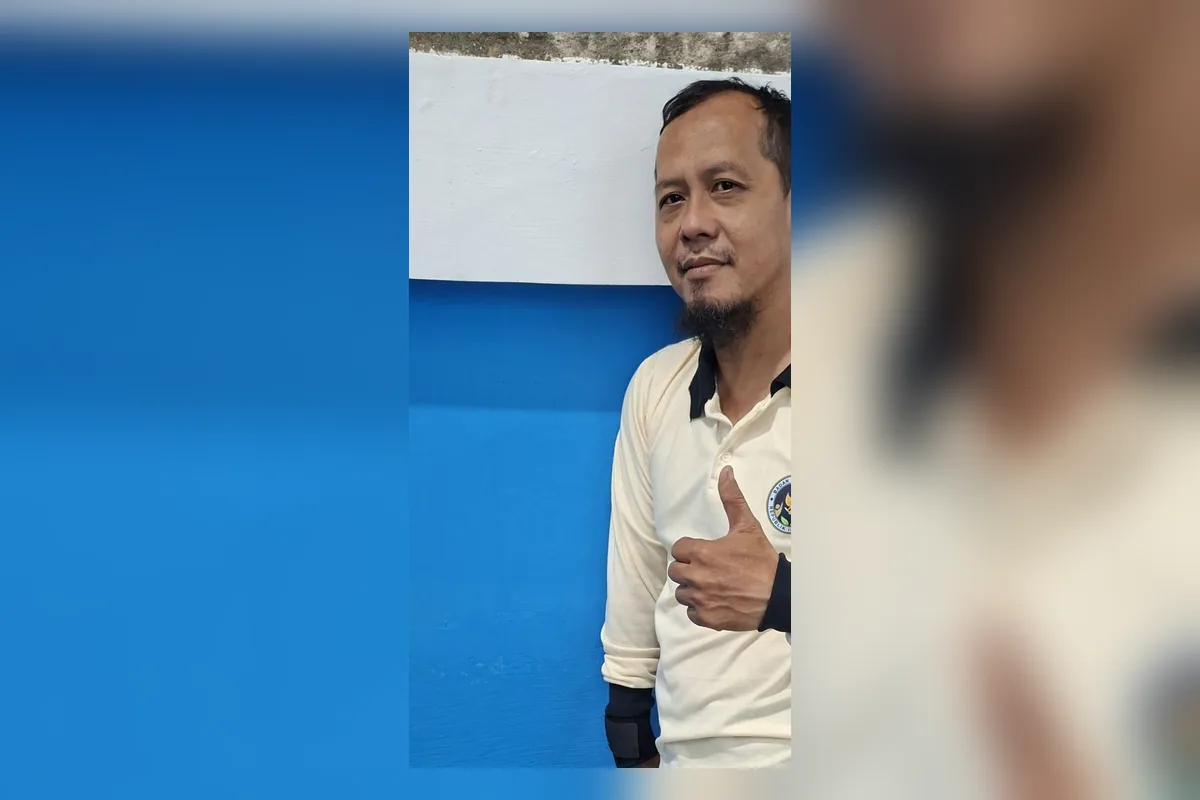
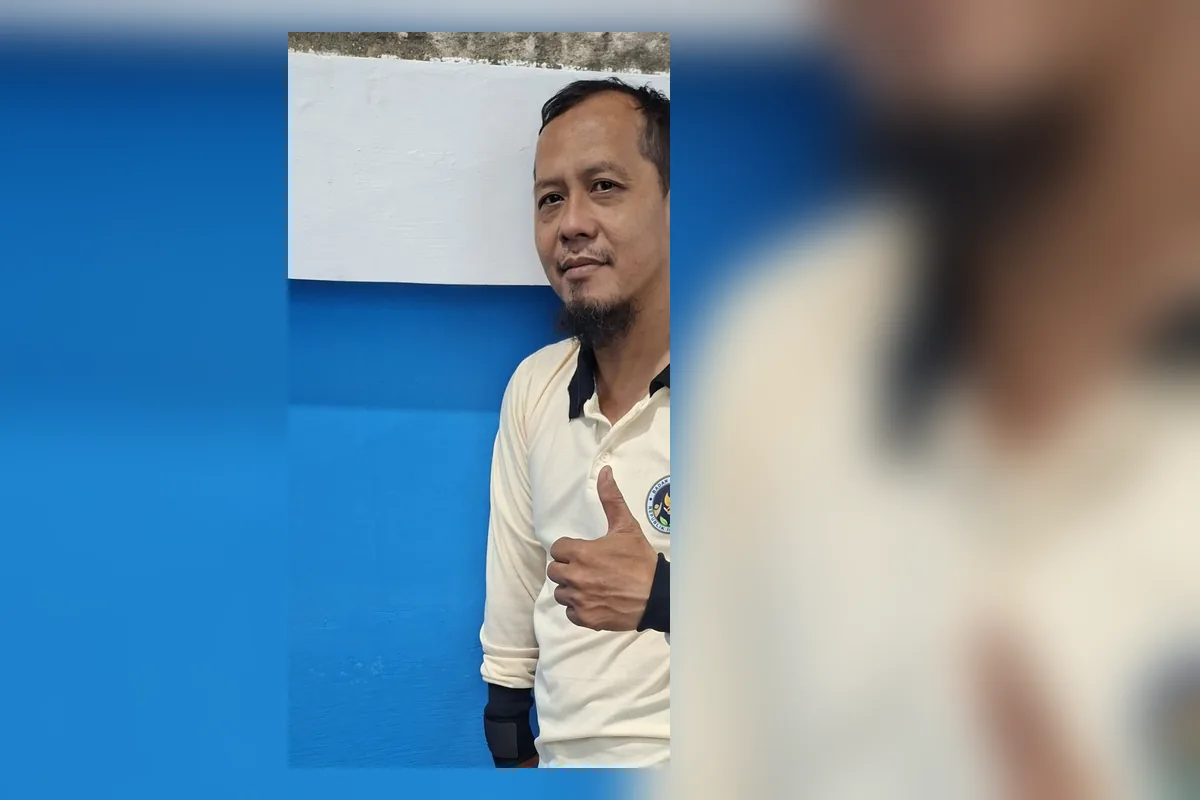
fix(team): center ops team photos + subtle zoom (YuNet-measured)
- ops wide cards: per-photo transform scale+translateX to bring YuNet
  face-center group means to ~50% (persiapan/pengolahan/pemorsian/keamanan)
- team-distribusi: re-crop from 1400x631 original centered on group (was 41% left)
- staff-packing: re-pad blur-pad centered on face (YuNet 81.6% -> 50%)
- uniform baseline zoom 7% (13-15% where centering needs more shift)
- verified: all 7 cards full coverage (no edge slivers), build passes

Changed region(s): [[0.2158, 0.0312, 0.6783, 0.9688]]

diff --git a/src/app/globals.css b/src/app/globals.css
@@ -1896,3 +1896,40 @@ html.theme-transition, html.theme-transition * {
   .team-staff-photo-card .staff-cap b { font-size: .72rem; line-height: 1.15; }
   .team-staff-photo-card .staff-cap .staff-badge { font-size: .5rem !important; padding: 2px 7px !important; }
 }
+
+/* ── rev-15: team ops photos — CENTER + zoom-in dikit (2026-08-20) ──
+   Desktop media ratio == source ratio (3:2) → object-position does nothing;
+   centering must be done with transform. Offsets = OpenCV YuNet face-center
+   measurements (group center vs 50%), scale chosen per photo so the shift
+   stays within coverage (no edge sliver / no clipped subject). */
+.team-photo-wide-card .team-photo-media img {
+  transform: scale(1.07);
+}
+.team-photo-wide-card .team-photo-media img[data-photo="team.persiapan"] {
+  /* group +5.0% right (YuNet 55.0%) -> shift -5% w/ scale 1.12 */
+  transform: scale(1.12) translateX(-5%);
+}
+.team-photo-wide-card .team-photo-media img[data-photo="team.pengolahan"] {
+  /* group +2.6% right (52.6%) */
+  transform: scale(1.07) translateX(-2.6%);
+}
+.team-photo-wide-card .team-photo-media img[data-photo="team.pemorsian"] {
+  /* group -2.3% left (47.7%) + crop excess headroom (face_y 31%) */
+  transform: scale(1.07) translateX(2.3%) translateY(3%);
+}
+.team-photo-wide-card .team-photo-media img[data-photo="team.packing"] {
+  /* asset re-padded w/ face centered (YuNet 49.7%) — uniform zoom only */
+  transform: scale(1.07);
+}
+.team-photo-wide-card .team-photo-media img[data-photo="team.distribusi"] {
+  /* asset re-cropped from 1400x631 orig, group 46.4% -> nudge +3% */
+  transform: scale(1.07) translateX(3%);
+}
+.team-photo-wide-card .team-photo-media img[data-photo="team.keamanan"] {
+  /* group -8.3% left (41.7%) -> shift +6.5% w/ scale 1.15 */
+  transform: scale(1.15) translateX(6.5%);
+}
+.team-photo-wide-card .team-photo-media img[data-photo="team.kebersihan"] {
+  transform: scale(1.07);
+}
+/* Mobile: keep the same centering; media is 4/3 so just inherit */
